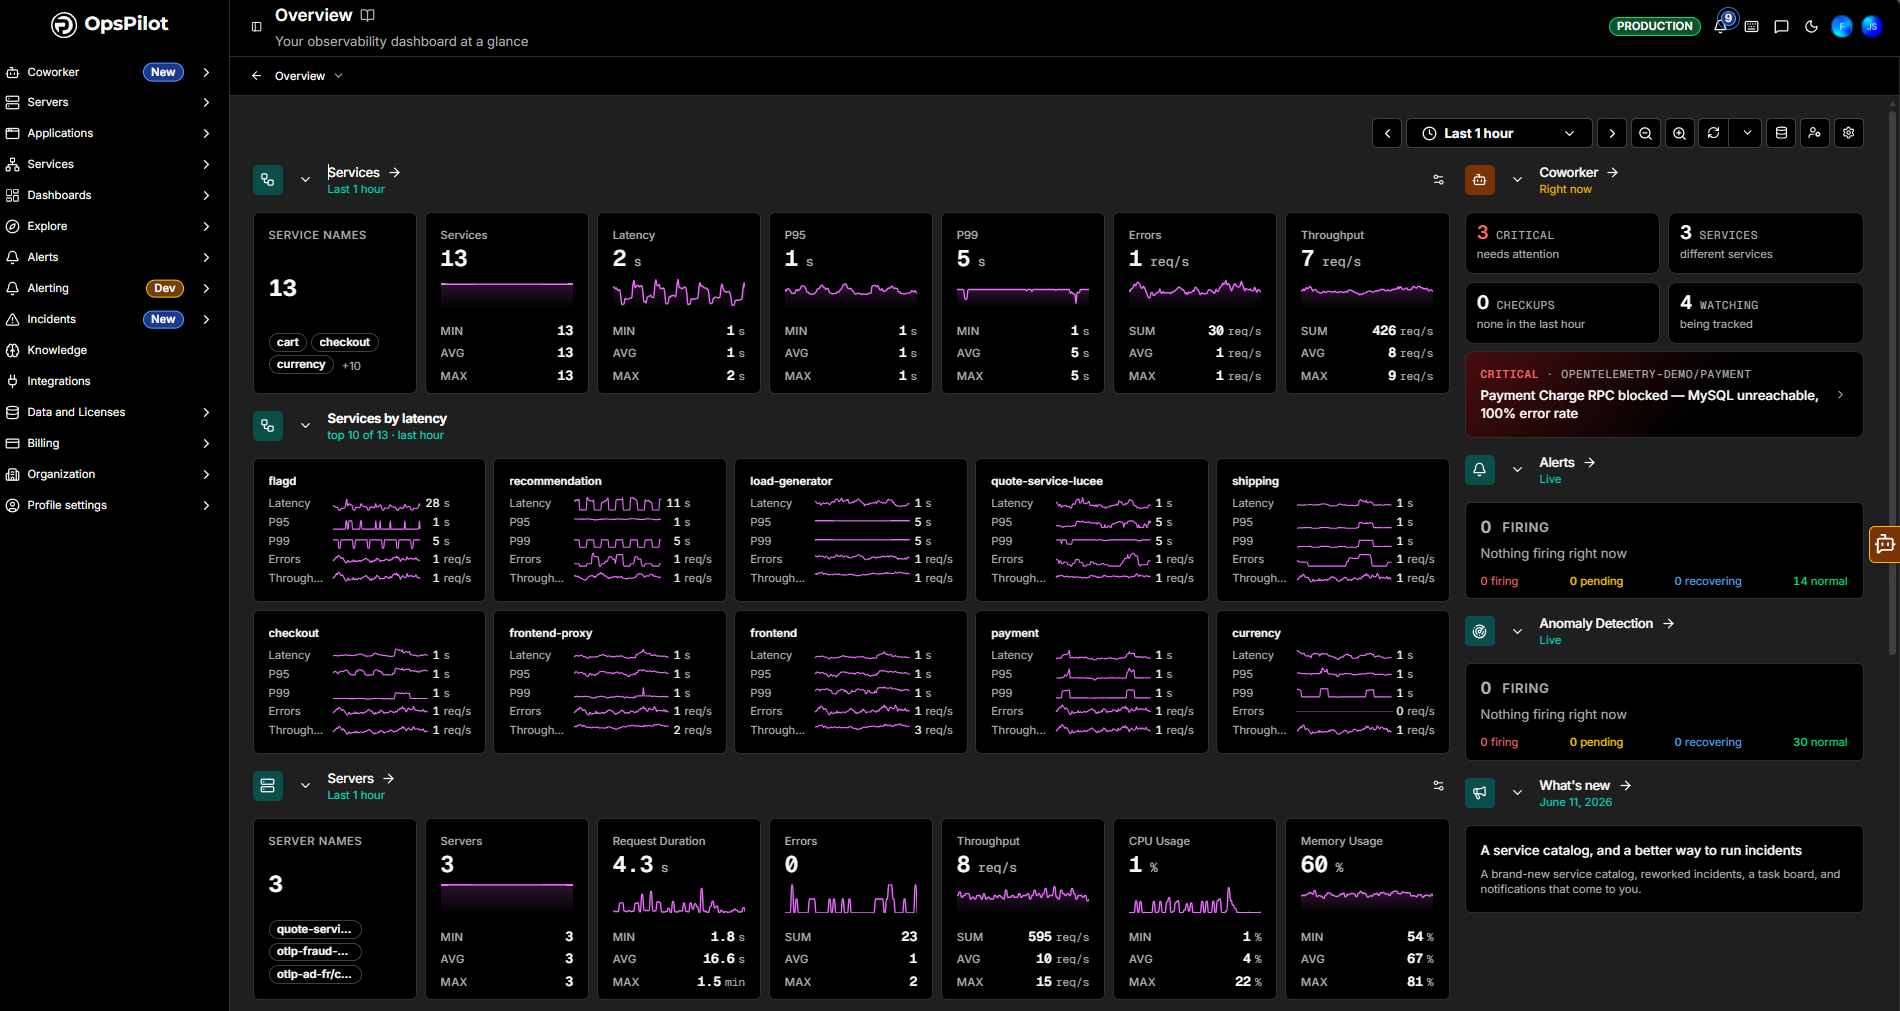
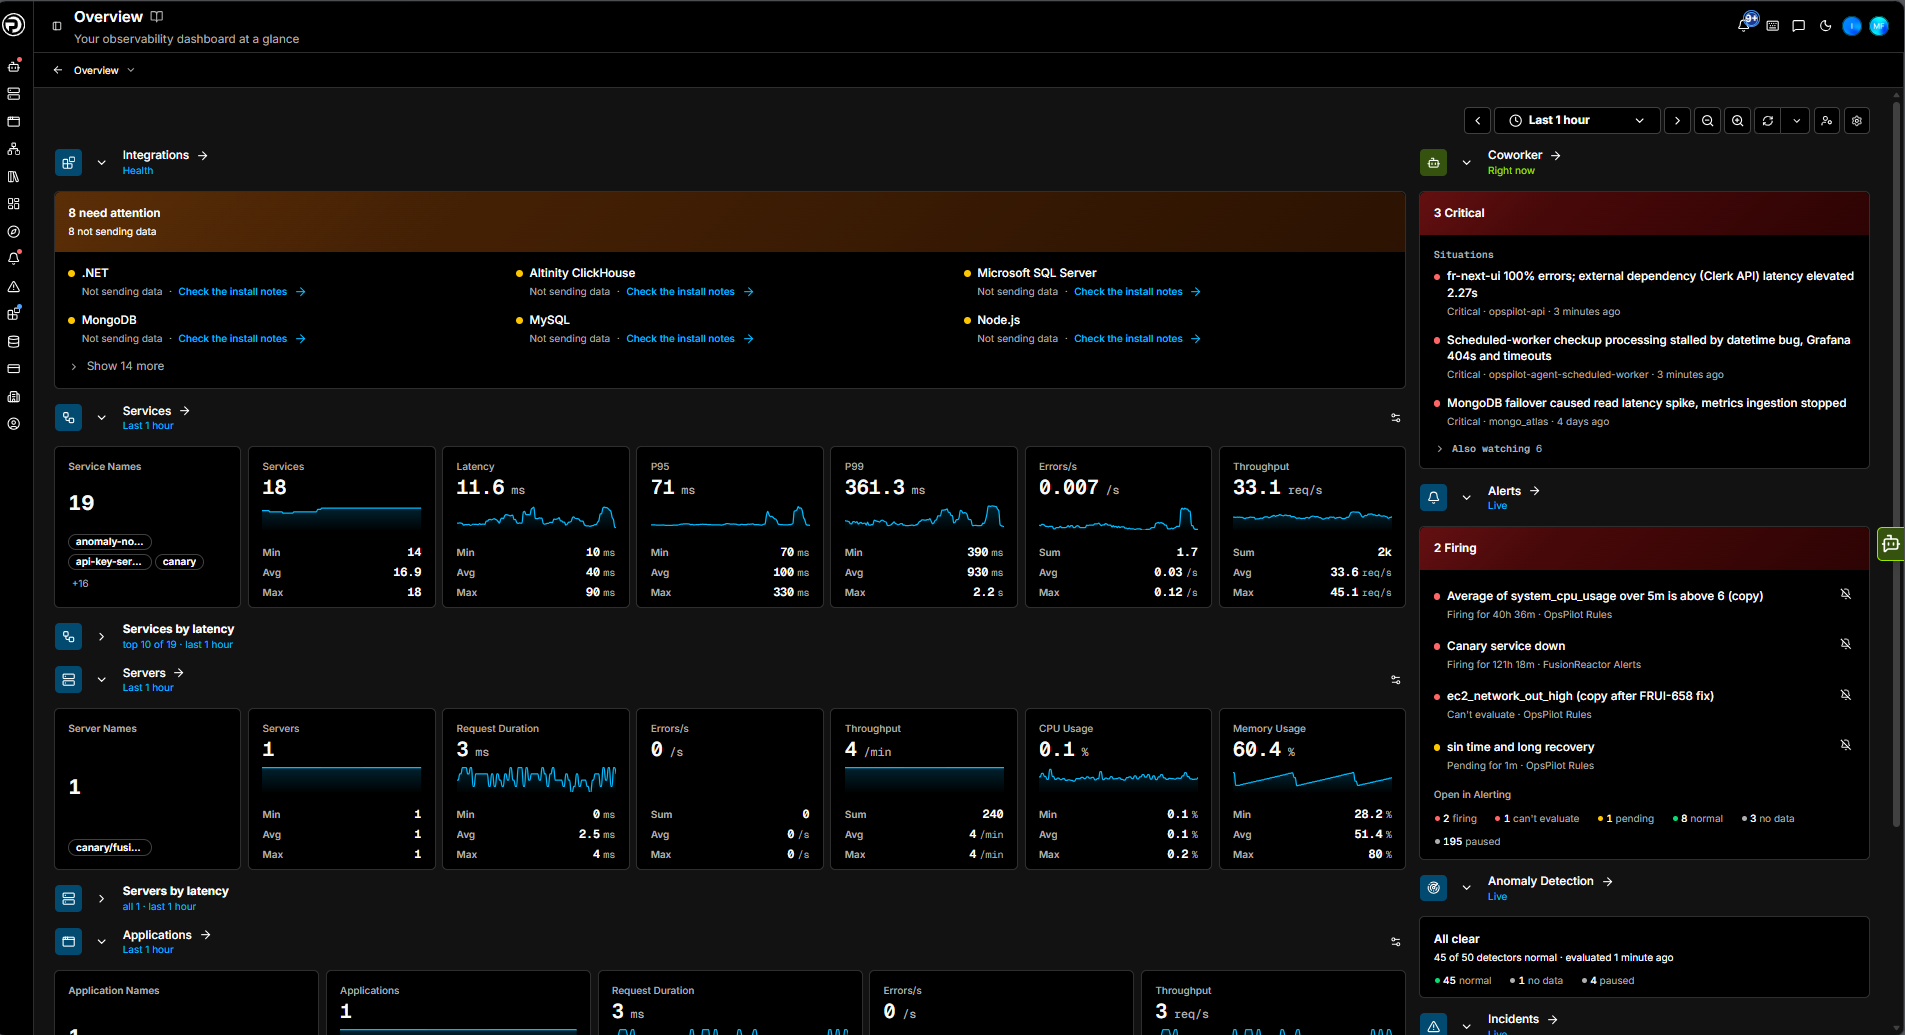
Replace the Overview screenshot and drop the stale panel images
Swap in the redesigned active-account screenshot, and remove the
now-outdated Coworker, Alerts, and Anomaly Detection panel images.

diff --git a/docs/Data-insights/Features/overview.md b/docs/Data-insights/Features/overview.md
@@ -35,8 +35,6 @@ Click **Integrations →** to go to the full [Integrations](/Data-insights/Featu
 
 ### Coworker
 
-![!Screenshot](../../Coworker/op-main-coworker.png)
-
 The **Coworker** panel gives you a live summary of your AI teammate's activity, in the right-hand rail. A **Right now** label shows it reflects the current state.
 
 Situations are grouped by severity - for example a **Critical** heading with a count, listing those situations below it. Each shows its severity, the affected service, a one-line summary (for example, *"fr-next-ui 100% errors; external dependency (Clerk API) latency elevated"*), and how long ago it changed. **Also watching N** rolls up the rest that Coworker is keeping an eye on.
@@ -110,8 +108,6 @@ Click **Applications ->** to go to the full [Applications](/Data-insights/Featur
 
 ### Alerts
 
-![!Screenshot](../../images/alerts-overview.png)
-
 The **Alerts** panel, in the right-hand rail with a **Live** label, leads with the number **firing** and lists them - each showing the alert name, how long it has been firing, and its rule group (for example *OpsPilot Rules* or *FusionReactor Alerts*). A muted-bell icon marks a silenced alert.
 
 Below the list, **Open in Alerting** links to the full view, with a breakdown of every rule by state:
@@ -128,8 +124,6 @@ Below the list, **Open in Alerting** links to the full view, with a breakdown of
 Click **Alerts →** to go to the full [Alerting Status](/Data-insights/Features/New-alerting/status/) view.
 
 ### Anomaly Detection
-
-![!Screenshot](../../images/AD-overview.png)
 
 The **Anomaly Detection** panel, in the right-hand rail with a **Live** label, mirrors the Alerts panel for your anomaly detectors. It reads **All clear** when none are active, and otherwise lists the firing and **pending** anomalies - each with its detector, the affected service, and how long it has been pending - above a breakdown of every detector by state (**pending**, **normal**, **no data**, **paused**).
 
